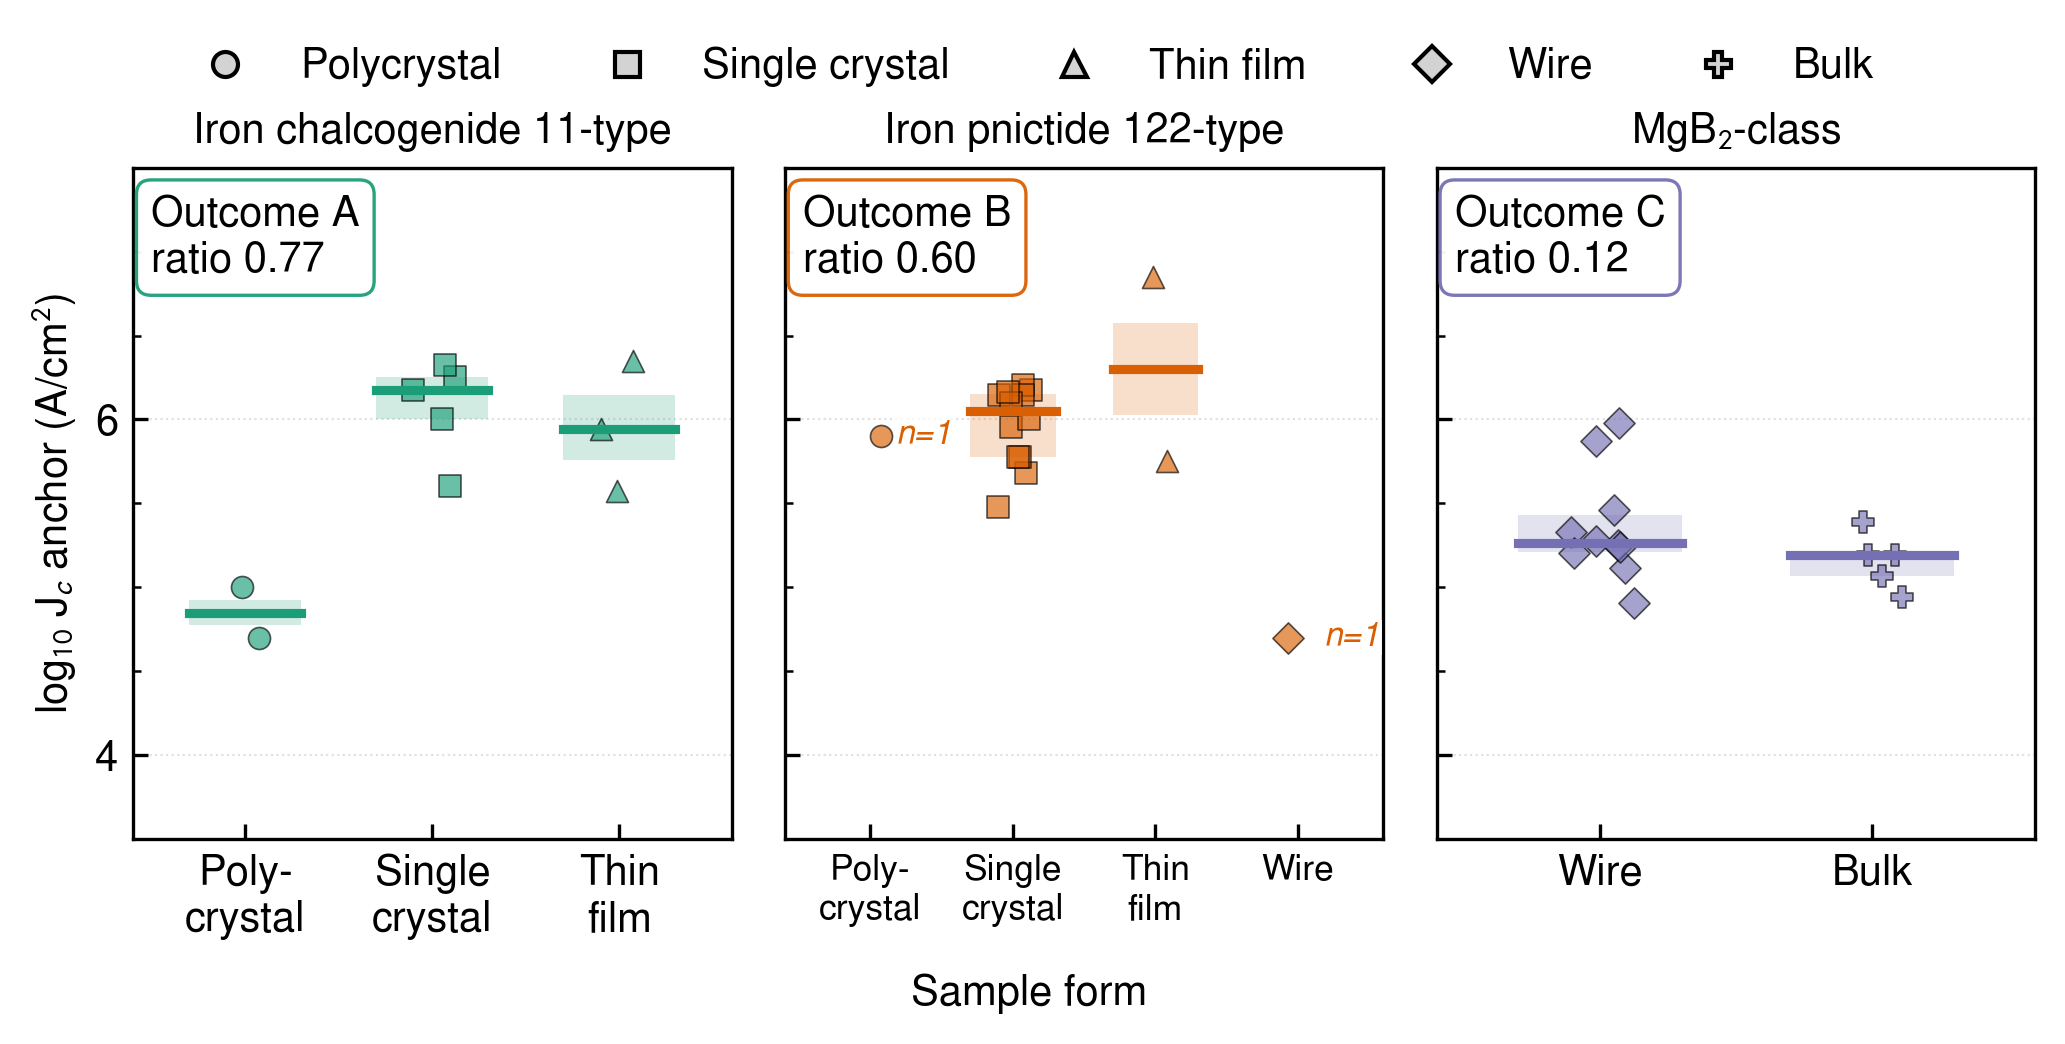
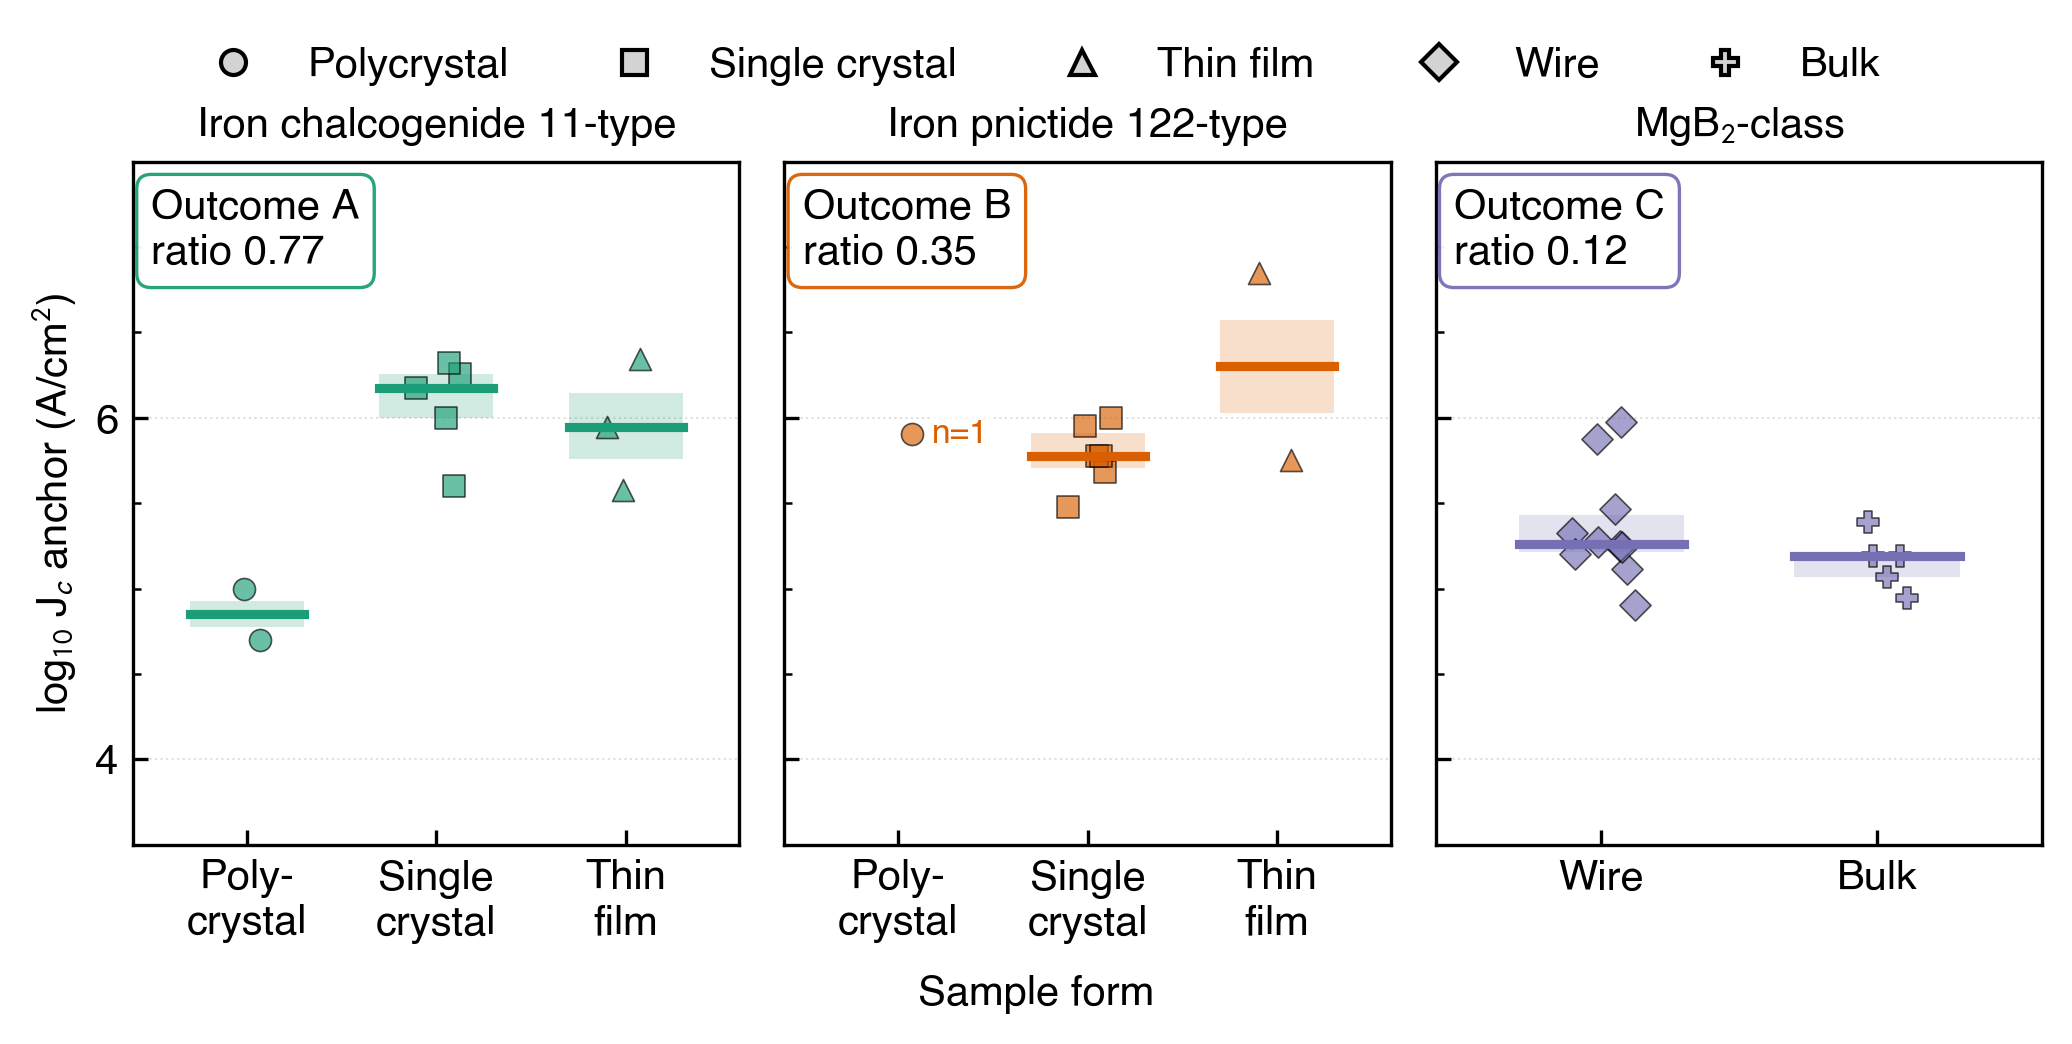
Report the resolved font instead of asking anyone to read the findfont warnings
The advice given with the last regeneration was wrong. matplotlib walks the
family list in order and warns once per family it cannot resolve, so on macOS it
warns about Nimbus Sans and Liberation Sans, which are Linux fallbacks, while
having already found Helvetica and used it. Treating any findfont warning as a
reason not to commit would reject a correct render.

figure_4_source.py now resolves the family list itself after saving and prints
which font was used, with an explicit warning when it is neither Helvetica nor
Arial. On this container it correctly reports Nimbus Sans and says not to commit
the render; on a machine with Helvetica it reports Helvetica.

Figure 3 is updated with the render made where Helvetica exists. Its 122 panel
now carries 9 markers rather than 16 and prints a ratio of 0.35, and the wire
marker that was the withdrawn Inoue record is gone, leaving that family with
three sample forms rather than four.

Claude-Session: https://claude.ai/code/session_01PhhbXYwhG93hipBp6Dk7Hu

diff --git a/analysis/figure_4_source.py b/analysis/figure_4_source.py
@@ -53,11 +53,19 @@ stack to do it.
 Note on regenerating the figure: it renders in Helvetica or Arial with several
 fallbacks. On a machine that has neither, matplotlib substitutes silently and
 the deposited figure comes back with a different typeface while reporting
-success. Check the font warnings before committing a re-render.
+success.
+
+Do not read the findfont warnings as the test. matplotlib walks the family list
+in order and warns once per family it cannot resolve, so on macOS it warns about
+Nimbus Sans and Liberation Sans, which are Linux fallbacks, while having found
+Helvetica first and used it. A warning naming a fallback is expected; a warning
+naming Helvetica AND Arial is the one that matters. The run reports the family
+it actually resolved, which is the check to read.
 """
 
 from __future__ import annotations
 import re
+import os
 from pathlib import Path
 import numpy as np
 import pandas as pd
@@ -69,6 +77,25 @@ import pandas as pd
 # ModuleNotFoundError on a clean environment, which reads as a broken deposit
 # rather than as a missing optional dependency.
 plt = None
+
+
+def _report_font():
+    """Say which font family was actually used, so nobody has to interpret the
+    findfont warnings to know whether the deposited typeface changed."""
+    from matplotlib import font_manager
+    for want in RC_PARAMS["font.family"]:
+        try:
+            path = font_manager.findfont(font_manager.FontProperties(family=want),
+                                         fallback_to_default=False)
+        except Exception:
+            continue
+        print("font resolved: %s  (%s)" % (want, os.path.basename(path)))
+        if want not in ("Helvetica", "Arial"):
+            print("WARNING: the deposited figure was drawn in %s, not Helvetica "
+                  "or Arial. Do not commit this render." % want)
+        return
+    print("WARNING: no family from the list resolved; matplotlib fell back to "
+          "its default. Do not commit this render.")
 
 
 def _need_plt():
@@ -437,6 +464,7 @@ def main():
 
     plt.tight_layout(rect=[0, 0.03, 1, 0.97])
     plt.savefig(OUT, dpi=300, bbox_inches="tight")
+    _report_font()
     print(f"wrote {OUT}")
 
 
